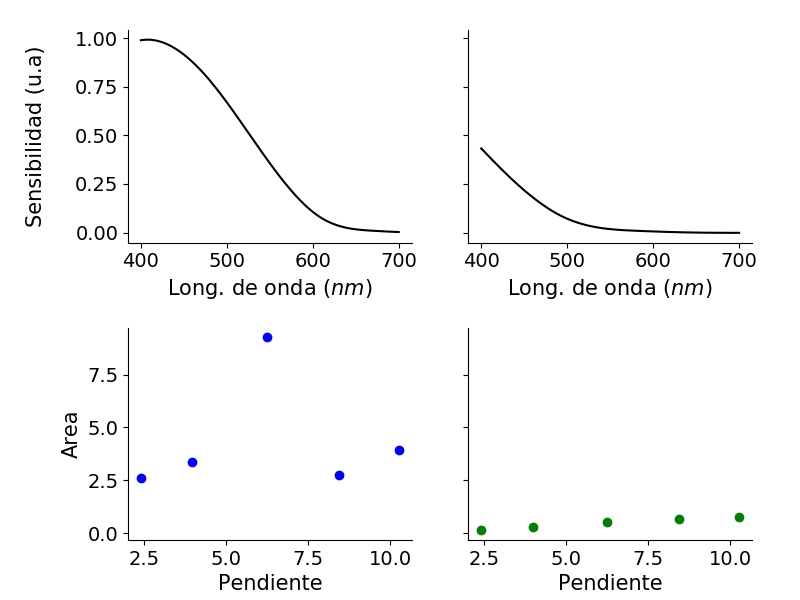
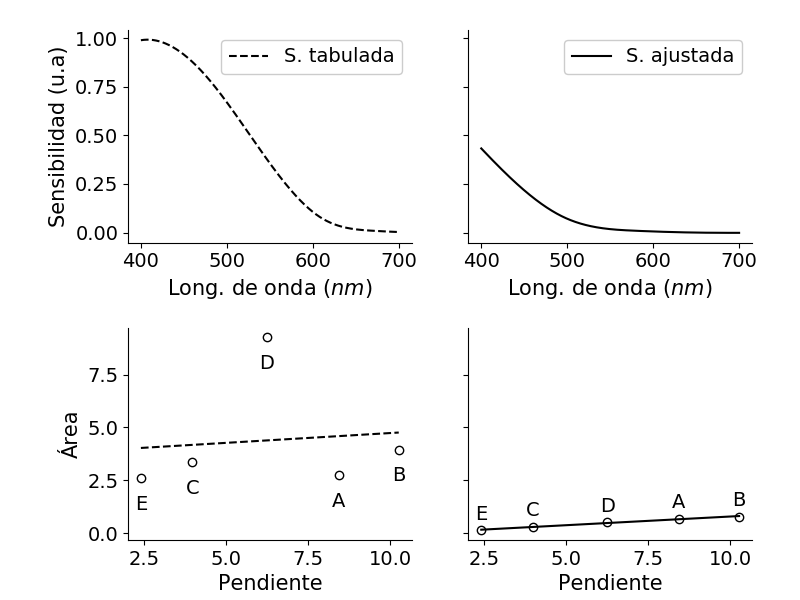
Trabajo de figuras y analisis terminado

diff --git a/espectro.py b/espectro.py
@@ -56,7 +56,7 @@ def ajuste(x, y, xmin, xmax, grado=3):
 
 
 def sensibilidad(long_onda, inicio=300, fin=700,
-                 smooth=0.001, plot=False, ax=None):
+                 smooth=0.001, plot=False, ax=None, ls_sens='--'):
     puntos = np.asarray([[300, 0.08], [320, 0.24], [330, 0.60],
                          [340, 0.76], [352, 0.88], [370, 0.94],
                          [405, 1.00], [440, 0.94], [460, 0.88],
@@ -75,9 +75,7 @@ def sensibilidad(long_onda, inicio=300, fin=700,
     if plot:
         if ax is None:
             fig, ax = plt.subplots(1)
-        #ax.plot(puntos.T[0], puntos.T[1], 'o')
-        #ax.plot(x, s(x))
-        ax.plot(long_onda, s(x), 'k')
+        ax.plot(long_onda, s(x), 'k', ls=ls_sens)
 
     return s(x)
 
@@ -214,7 +212,7 @@ if __name__ == "__main__":
     # Figura de espectros corregidos sin ajustar
     fig, ax = plt.subplots(1)
     plot_espectros_corregidos(sensibilidad(long_onda), ax=ax, ls_sens='--')
-    old_espec_line = mlines.Line2D([], [], ls=':', color='k', lw=0.5)
+    old_espec_line = mlines.Line2D([], [], ls='-', color='k', lw=0.5)
     sens_line = mlines.Line2D([], [], ls='--', color='k')
     ax.legend([sens_line, old_espec_line],
               ['Sensibilidad tabulada', 'Espectro original'],
@@ -228,7 +226,7 @@ if __name__ == "__main__":
     a2 = plot_espectros_corregidos(sensibilidad(long_onda), ax=ax, plot_old=False,
                                    ls_sens='--', ls=':', color='k', lw=0.5)
     old_sens_line = mlines.Line2D([], [], ls='--', color='k')
-    old_espec_line = mlines.Line2D([], [], ls=':', color='k', lw=0.5)
+    old_espec_line = mlines.Line2D([], [], ls='-', color='k', lw=0.5)
     new_sens_line = mlines.Line2D([], [], ls='-', color='k')
     ax.legend([old_sens_line, old_espec_line, new_sens_line],
               ['Sensibilidad tabulada',
@@ -244,27 +242,46 @@ if __name__ == "__main__":
                         hspace=0.40, wspace=0.2)
 
     sensibilidad(long_onda, inicio=300, fin=700,
-                 plot=True, ax=ax[0][0])
+                 plot=True, ax=ax[0][0], ls_sens='--')
     sensibilidad(long_onda, inicio=popt[0], fin=popt[1],
-                 plot=True, ax=ax[0][1])
-    ax[1][0].plot(p, a2, 'bo')
-    ax[1][1].plot(p, a1, 'go')
+                 plot=True, ax=ax[0][1], ls_sens='-')
+    ax[1][0].plot(p, a2, 'ko', mfc='white')
+    ax[1][1].plot(p, a1, 'ko', mfc='white')
 
     ax[0][0].set_xlabel(r'Long. de onda ($nm$)')
     ax[0][1].set_xlabel(r'Long. de onda ($nm$)')
-    ax[0][0].set_ylabel('Sensibilidad (u.a)\n')
+    ax[0][0].set_ylabel('Sensibilidad (u.a)')
 
     ax[1][0].set_xlabel(r'Pendiente')
     ax[1][1].set_xlabel(r'Pendiente')
-    ax[1][0].set_ylabel('Area')
+    ax[1][0].set_ylabel('Área')
 
-    orden = np.argsort(p)
+    p = np.asarray(p)
+    orden = p.argsort()
     p = p[orden]
-    p = np.asarray(p[orden])
-    a1 = np.asarray(a1[orden])
-    a2 = np.asarray(a2[orden])
+    a1 = np.asarray(a1)[orden]
+    a2 = np.asarray(a2)[orden]
 
     recta1 = np.polyfit(p, a2, deg=1)
     recta2 = np.polyfit(p, a1, deg=1)
 
-    ax[1][0].plot(p, p * recta1[1] + recta1[0])
+    ax[1][0].plot(p, p * recta1[0] + recta1[1], 'k', ls='--')
+    ax[1][1].plot(p, p * recta2[0] + recta2[1], 'k', ls='-')
+
+    letras = ['E', 'C', 'D', 'A', 'B']
+    for i in range(5):
+        ax[1][0].annotate(letras[i], xy=(p[i], a2[i]),
+                          xytext=(p[i], a2[i] - 1.5), fontsize=14,
+                          horizontalalignment='center')
+        ax[1][1].annotate(letras[i], xy=(p[i], a1[i]),
+                          xytext=(p[i], a1[i] + 0.5), fontsize=14,
+                          horizontalalignment='center')
+
+    old_sens_line = mlines.Line2D([], [], ls='--', color='k')
+    new_sens_line = mlines.Line2D([], [], ls='-', color='k')
+    ax[0][0].legend([old_sens_line, ],
+                    ['S. tabulada', ],
+                    loc='best', framealpha=1)
+    ax[0][1].legend([new_sens_line, ],
+                    ['S. ajustada', ],
+                    loc='best', framealpha=1)

diff --git a/ajustes.py b/ajustes.py
@@ -14,6 +14,7 @@ import numpy as np
 from scipy import signal
 from scipy.optimize import curve_fit
 import matplotlib.pyplot as plt
+import matplotlib.lines as mlines
 
 from analisis import mediciones, espectros, ventana_espectros
 from analisis import ajuste
@@ -38,24 +39,86 @@ plt.rc('legend', fontsize=14, loc='best')
 # Ejes (tamaño de la fuente)
 plt.rc('axes', labelsize=15)
 #%%
-#Led azul:
-fig, ax = plt.subplots(1)
+# Led azul:
+fig, ax = plt.subplots(2)
+fig.subplots_adjust(left=0.10, right=0.94, top=0.95, bottom=0.10,
+                    hspace=0.40, wspace=0.2)
 
-for i in range(4):
+
+for i in range(3, -1, -1):
+    letras = ['B', 'C', 'D', 'E']
     v_ret, v_foto = mediciones['10']
+    long_onda, intensidad = espectros['10' + letras[i]]
     v_foto0 = v_foto[i] - np.mean(v_foto[i][v_ret < -1.0])
     pol, r = ajuste(v_ret, v_foto0, 0.0, 2.0)
-    u = i*0.5+2.5
-    ax.plot(v_ret, v_foto0*(1e6), 'o', ms = 8, mec='None', label= '{:.2f} V'.format(u))
-    ax.plot(v_ret, pol(v_ret)*(1e6), color='k')
-    ax.axhline(linestyle=':', color='k')
-    ax.set_xlabel(r'Voltaje (V)')
-    ax.set_ylabel(r'Fotocorriente $\propto$ V ($\mu$V)')
-#    ax.ticklabel_format(style='sci', axis='y', scilimits=(0,0))
-    ax.legend(loc='best', ncol=2)
-    for i in range(10):
-        if r.real[i] > 0.2 and r.real[i]< 0.4:
-            print(r.real[i])
+    u = i * 0.5 + 2.5
+    ax[0].plot(v_ret, v_foto0 * (1e6), 'o', ms=8,
+               mec='None', label='{:.2f} V'.format(u))
+    ax[0].plot(v_ret, pol(v_ret) * (1e6), color='k')
+    ax[0].axhline(linestyle=':', color='k')
+    ax[0].set_xlabel(r'Voltaje (V)')
+    ax[0].set_ylabel(r'Fotocorriente $\propto$ V ($\mu$V)')
 
-ax.set_xlim(0.2, 1.0)
-ax.set_ylim(-0.5, 4.0)
+    for j in range(10):
+        if r.real[j] > 0.2 and r.real[j] < 0.4:
+            print(r.real[j])
+
+    ax[1].plot(long_onda, intensidad)
+    ax[1].set_xlabel(r'Long. de onda ($nm$)')
+    ax[1].set_ylabel('Intensidad (u.a)\n')
+    ax[1].set_yticks([])
+
+ax[0].plot([], [], '-', color='k', label='Ajustes')
+ax[0].legend(loc='best', ncol=1)
+ax[0].set_xlim(0.2, 1.0)
+ax[0].set_ylim(-0.5, 4.0)
+ax[1].set_xlim(460, 480)
+
+
+#%%
+# Led azul para otras frecuencias:
+
+fig, ax = plt.subplots(2)
+fig.subplots_adjust(left=0.10, right=0.94, top=0.95, bottom=0.10,
+                    hspace=0.40, wspace=0.2)
+
+long_onda, intensidad = espectros['05' + 'A']
+letras = [r'$\alpha$', r'$\beta$', r'$\gamma$', r'$\delta$']
+posiciones = [1212, 1247, 1285, 1371]
+longitud = [long_onda[i] for i in posiciones]
+alturas = [0.028, 0.083, 0.134, 0.048]
+
+
+for i in range(5, 9):
+    v_ret, v_foto = mediciones['0' + str(i)]
+    long_onda, intensidad = espectros['0' + str(i) + 'A']
+    v_foto0 = v_foto - np.mean(v_foto[v_ret < -1.0])
+    pol, r = ajuste(v_ret, v_foto0, 0.0, 2.0)
+    ax[0].plot(v_ret[::4], v_foto0[::4] * (1e6), 'o', ms=8, alpha=0.7,
+               mec='None')
+    ax[0].plot(v_ret, pol(v_ret) * (1e6), color='k', zorder=10, lw=1.5)
+    ax[0].axhline(linestyle=':', color='k', zorder=10)
+    ax[0].set_xlabel(r'Voltaje (V)')
+    ax[0].set_ylabel(r'Fotocorriente $\propto$ V ($\mu$V)')
+    for j in range(10):
+        if r.real[j] > 0.2 and r.real[j] < 0.4:
+            print(r.real[j])
+
+    texto = '{:s}'.format(letras[i - 5])
+    ax[0].annotate(texto, xy=(2.0, v_foto[-10] * (1e6) - 1),
+                   xytext=(2.05, v_foto[-10] * (1e6) - 1), fontsize=14,
+                   verticalalignment='center')
+
+    ax[1].plot(long_onda, intensidad)
+    ax[1].set_xlabel(r'Long. de onda ($nm$)')
+    ax[1].set_ylabel('Intensidad (u.a)\n')
+    ax[1].set_yticks([])
+
+    ax[1].annotate(letras[i - 5], xy=(longitud[i - 5], alturas[i - 5]),
+                   xytext=(longitud[i - 5], alturas[i - 5] + 0.01),
+                   fontsize=14, horizontalalignment='center')
+
+
+ax[0].set_xlim(0.2, 2.15)
+ax[0].set_ylim(-0.5, 17.0)
+ax[1].set_xlim(445, 505)
